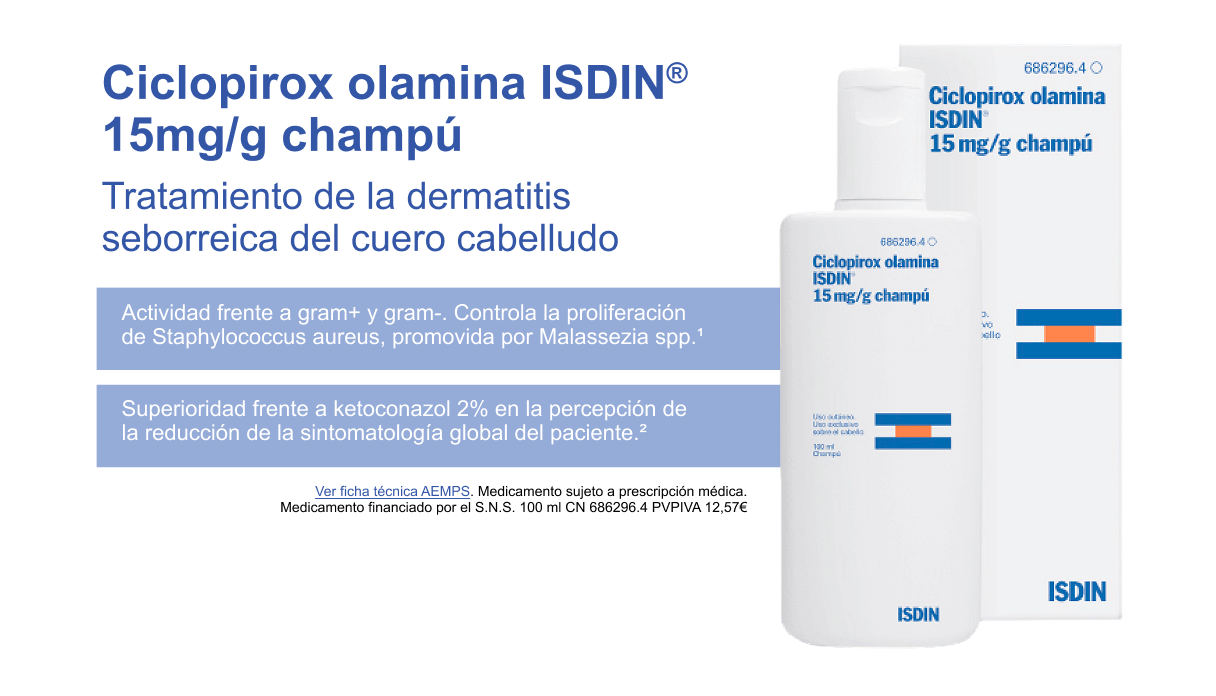
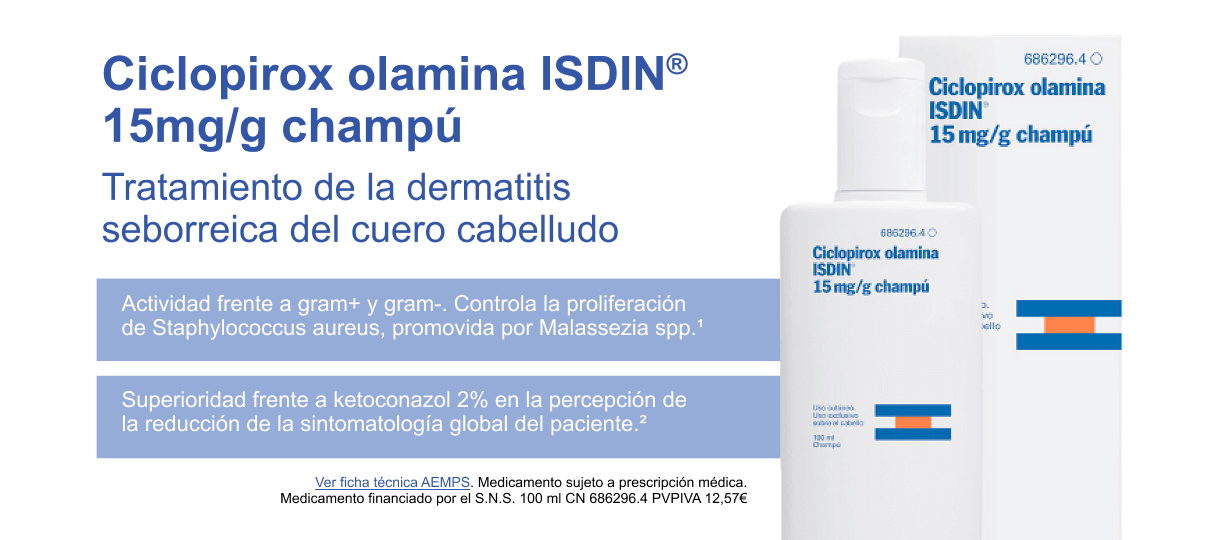
newsletter9

diff --git a/newsletter9/newsletter9.html b/newsletter9/newsletter9.html
@@ -38,7 +38,7 @@
                         font-weight: bold;
                       "
                     >
-                      Ciclopirox olamina ISDIN<sup>®</sup>
+                      Ciclopirox olamina ISDIN<sup style="font-size: 15px;">®</sup>
                     </td>
 
                     <!-- LOGO -->

diff --git a/newsletter9/mailtest.php b/newsletter9/mailtest.php
@@ -10,7 +10,7 @@ $from = "eloiv@lliures.cat";
 $fromName = "Eloi Vaqué";
 
 // Carreguem l'HTML
-$htmlFile = "newsletter8.html";
+$htmlFile = "newsletter9.html";
 if (!file_exists($htmlFile)) {
     die("Error: no es troba el fitxer HTML $htmlFile");
 }
